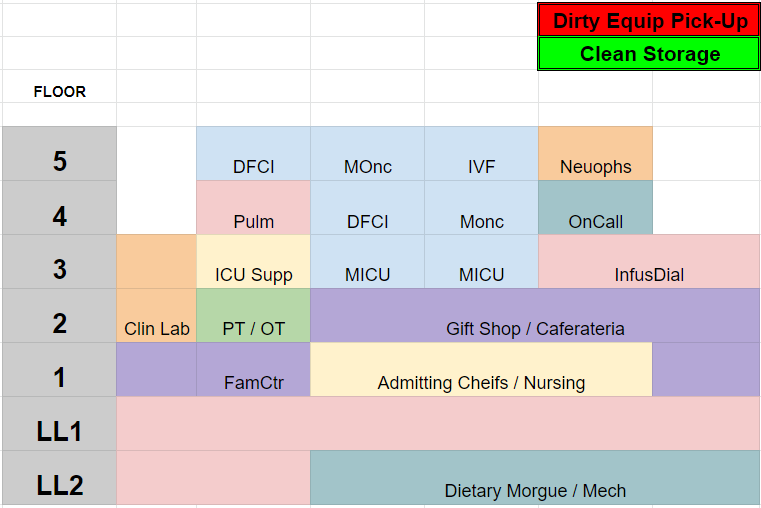
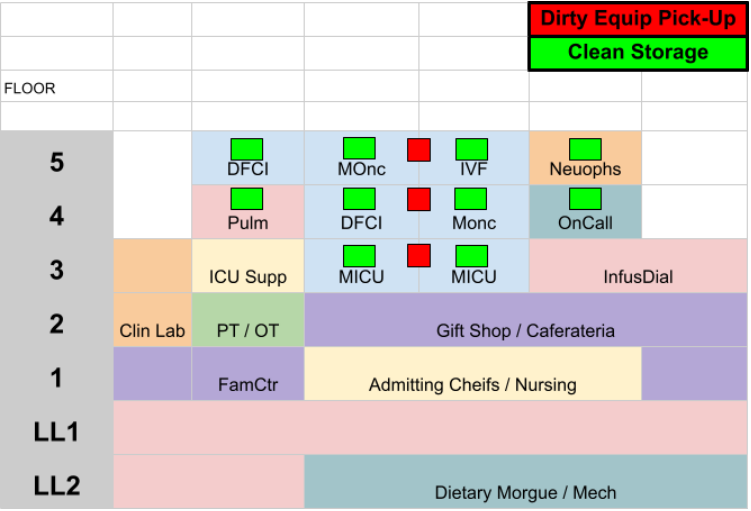
Text area in side view map that prints "info" about equipment on different floors

diff --git a/src/main/java/edu/wpi/cs3733/d22/teamV/controllers/MapController.java b/src/main/java/edu/wpi/cs3733/d22/teamV/controllers/MapController.java
@@ -5,6 +5,7 @@ import edu.wpi.cs3733.d22.teamV.main.RequestSystem;
 import edu.wpi.cs3733.d22.teamV.manager.MapManager;
 import edu.wpi.cs3733.d22.teamV.map.*;
 import edu.wpi.cs3733.d22.teamV.objects.Location;
+import java.awt.*;
 import java.util.ArrayList;
 import javafx.beans.property.DoubleProperty;
 import javafx.beans.property.SimpleDoubleProperty;
@@ -16,6 +17,7 @@ import javafx.geometry.Pos;
 import javafx.scene.Group;
 import javafx.scene.control.Button;
 import javafx.scene.control.ScrollPane;
+import javafx.scene.control.TextArea;
 import javafx.scene.image.Image;
 import javafx.scene.image.ImageView;
 import javafx.scene.input.MouseEvent;
@@ -83,6 +85,8 @@ public class MapController extends Controller {
               "5th Floor",
               "Side View"));
 
+  @FXML protected TextArea sideViewArea = new TextArea();
+
   @Override
   public void start(Stage primaryStage) throws Exception {
     init();
@@ -117,7 +121,7 @@ public class MapController extends Controller {
     mapPane.setMinWidth(600);
     mapPane.setMinHeight(600);
     mapImage.setPreserveRatio(true);
-    //mapPane.setStyle("-fx-border-color: blue;");
+    // mapPane.setStyle("-fx-border-color: blue;");
     scrollPane.setPannable(true);
     scrollPane.setHbarPolicy(ScrollPane.ScrollBarPolicy.NEVER);
     scrollPane.setVbarPolicy(ScrollPane.ScrollBarPolicy.NEVER);
@@ -152,6 +156,7 @@ public class MapController extends Controller {
         event -> {
           checkDropDown();
         });
+
     filterCheckBox = new CheckComboBox<>();
     filterCheckBox.setTitle("Filter Items");
     filterCheckBox.getItems().addAll(filterItems);
@@ -170,6 +175,11 @@ public class MapController extends Controller {
                 change -> {
                   checkDropDown();
                 });
+
+    sideViewArea.setVisible(false);
+    sideViewArea.setText("Equipment Info:\n");
+    sideViewArea.setMaxSize(300, 300);
+
     mapPane.setOnMouseClicked(
         event -> {
           if (event.getClickCount() == 2) {
@@ -188,7 +198,7 @@ public class MapController extends Controller {
 
     scrollPane.setMaxSize(470, 470);
     mapHBox.getChildren().addAll(floorDropDown, filterCheckBox, refreshButton);
-    mapVBox.getChildren().addAll(scrollPane, mapHBox);
+    mapVBox.getChildren().addAll(scrollPane, mapHBox, sideViewArea);
     mapVBox.setAlignment(Pos.TOP_CENTER);
     mapVBox.setSpacing(15);
     mapHBox.setAlignment(Pos.CENTER);
@@ -267,9 +277,27 @@ public class MapController extends Controller {
   public void populateFloorIconArr() {
     mapPane.getChildren().clear();
 
+    // for side view controllers
+    sideViewArea.setVisible(false);
     if (currFloor.getFloorName().equals("SV")) {
-      // Side view case where no filtering is needed
-      currFloor.setIconList(new ArrayList<Icon>());
+
+      ArrayList<Floor> floorList = MapManager.getManager().getFloorList();
+      ArrayList<Icon> tempIconList;
+
+      for (int f = 0; f < floorList.size() - 1; f++) {
+        tempIconList = floorList.get(f).getIconList();
+        String floorInfo = floorList.get(f).getFloorName() + ": \n";
+        for (int i = 0; i < tempIconList.size(); i++) {
+          if (tempIconList.get(i).getIconType().equals("Equipment")) {
+            floorInfo += tempIconList.get(i).getIconType() + "  ";
+          }
+        }
+        String oldInfo = sideViewArea.getText();
+        sideViewArea.setText(oldInfo + "\n" + floorInfo + "\n");
+      }
+
+      sideViewArea.setVisible(true);
+
       // ... Side View Controller Stuff
 
     } else {
